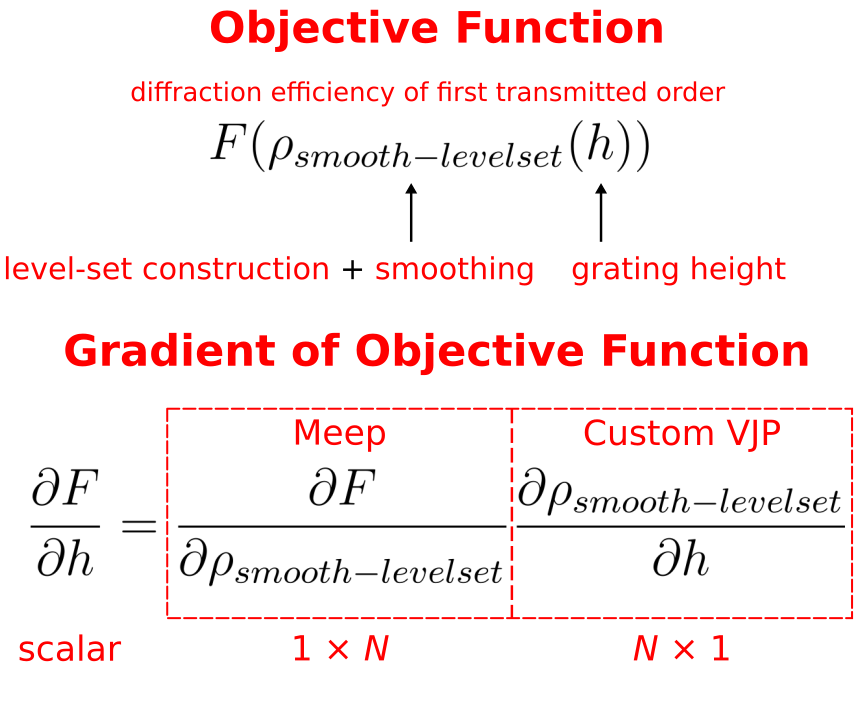
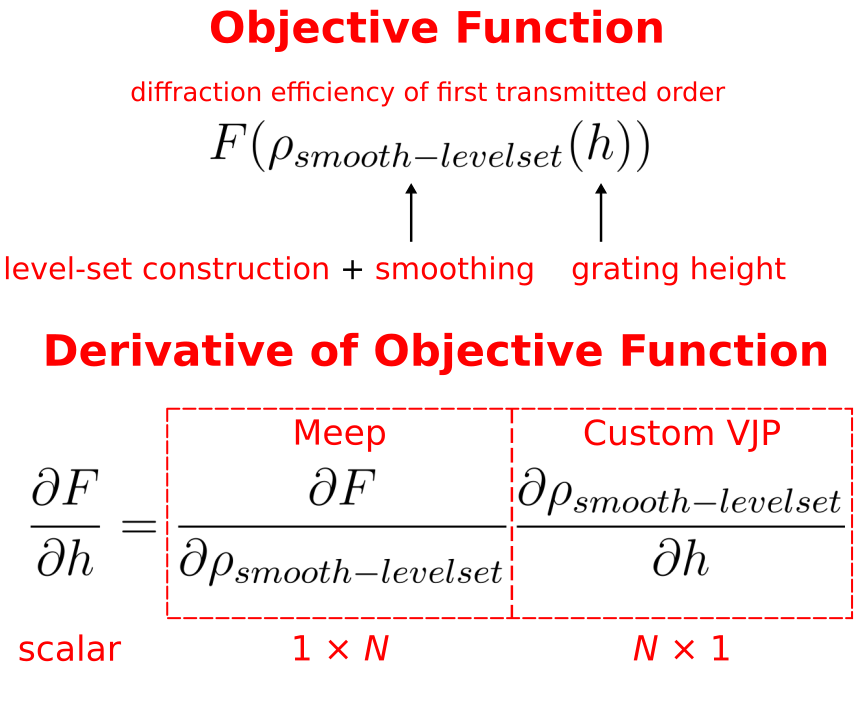
various tweaks and minor fixes to tutorial for derivative of shape parameters (#2856)

Changed region(s): [[0.0311, 0.4481, 0.9654, 0.5377]]

diff --git a/python/examples/adjoint_optimization/binary_grating_levelset.py b/python/examples/adjoint_optimization/binary_grating_levelset.py
@@ -1,10 +1,13 @@
-"""Computes the adjoint gradient of a level set.
+"""Computes the adjoint derivative with respect to shape parameters.
 
-This is a 2D example for computing the gradient of the diffraction efficiency
+This is a 2D example for computing the derivative of the diffraction efficiency
 of the first transmitted order of a 1D grating with respect to the grating
-height. The adjoint gradient is validated using the brute-force finite
-difference via the directional derivative. The grating structure is
-represented as a level set.
+height. The accuracy of the adjoint derivative is validated using the
+brute-force finite-difference approximation. The grating structure is
+represented as a level-set formulation.
+
+Reference Tutorial:
+https://meep.readthedocs.io/en/latest/Python_Tutorials/Adjoint_Solver/#derivatives-with-respect-to-shape-parameters
 """
 
 from enum import Enum
@@ -341,6 +344,6 @@ if __name__ == "__main__":
         (fnd_directional_deriv - adj_directional_deriv) / fnd_directional_deriv
     )
     print(
-        f"dir-deriv:, {fnd_directional_deriv:.8f} (finite difference), "
+        f"deriv:, {fnd_directional_deriv:.8f} (finite difference), "
         f"{adj_directional_deriv:.8f} (adjoint), {rel_err:.6f} (error)"
     )

diff --git a/doc/docs/Python_Tutorials/Adjoint_Solver.md b/doc/docs/Python_Tutorials/Adjoint_Solver.md
@@ -807,46 +807,46 @@ if __name__ == "__main__":
 Derivatives with Respect to Shape Parameters
 --------------------------------------------
 
-It is also possible to compute the derivative of the Meep outputs with respect to a geometric parameter via a [level-set](https://en.wikipedia.org/wiki/Level_set) formulation (an implicit-function representation of a material discontinuity) using the density-based adjoint solver. This is useful for applications involving [shape optimization](https://en.wikipedia.org/wiki/Shape_optimization) of explicitly parameterized geometries.
+It is also possible to compute the derivative of the Meep outputs with respect to a geometric parameter via a [level-set](https://en.wikipedia.org/wiki/Level_set) formulation (an [implicit-function](https://en.wikipedia.org/wiki/Implicit_function) representation of a material discontinuity) using the density-based adjoint solver. This is useful for applications involving [shape optimization](https://en.wikipedia.org/wiki/Shape_optimization) of explicitly parameterized geometries.
 
 As a demonstration, we will compute the derivative of the diffraction efficiency of the first transmitted order with $\mathcal{S}$ polarization (electric field out of the plane, i.e. $E_z$) of a 1D binary grating with respect to the grating height. The accuracy of the adjoint derivative is validated using a brute-force finite-difference approximation.
 
 The calculation of the diffraction efficiency involves [mode decomposition](Python_User_Interface/#mode-decomposition) of planewaves which is described in [Tutorial/Transmissive Diffraction Spectrum for Planewave at Normal Incidence](Mode_Decomposition.md#transmissive-diffraction-spectrum-for-planewave-at-normal-incidence). An important aspect of setting up this simulation is specifying a diffraction order (planewave) in 2D using the `meep.adjoint.EigenmodeCoefficient` object. This involves three components: (1) the wavevector via the `kpoint_func` parameter, (2) the polarization via the `eig_parity` parameter, and (3) the `eig_vol` parameter must be set to have a *length of one pixel in the periodic direction*. The latter is necessary for MPB to correctly interpret the wavevector in the Cartesian basis rather than the reciprocal-lattice basis defined by the grating period.
 
-The calculation of the derivative of the diffraction efficiency ($F$) with respect to the grating height ($h$) involves using the chain rule to obtain a product of two derivatives (Jacobians): (1) $\partial F / \partial \rho$ and (2) $\partial \rho / \partial h$, where $\rho$ are the density weights (2D grid of $N_x \times N_y = N$ points) used to represent the binary grating as a level set. (1) is the adjoint gradient computed by Meep. (2) requires the level set to be *smoothed* to ensure it that the derivative $\partial \rho / \partial h$ exists. (2) is implemented in Autograd using a custom vector–Jacobian product (vJP) which is used as part of reverse-mode differentiation (backpropagation) to compute $\partial F / \partial h$. An overview of this calculation is shown below.
+Calculating the derivative of the diffraction efficiency ($F$) with respect to the grating height ($h$) involves using the chain rule to obtain a product of two derivatives (Jacobians): (1) $\partial F / \partial \rho$ and (2) $\partial \rho / \partial h$, where $\rho$ are the density weights (2D grid of $N_x \times N_y = N$ points) used to represent the binary grating as a level set. (1) is the adjoint gradient computed by Meep. (2) requires the level set to be *smoothed* to ensure that the derivative $\partial \rho / \partial h$ exists. (2) is implemented in Autograd using a custom vector–Jacobian product (vJP) which is used as part of reverse-mode differentiation (backpropagation) to compute $\partial F / \partial h$. An overview of this calculation is shown below.
 
 ![](../images/levelset_gradient_backpropagation.png#center)
 
-The derivative $\partial \rho / \partial h$ can be approximated by a finite difference using a one-pixel perturbation applied to the grating height; this is computationally convenient because it greatly simplifies the construction of $\rho(h)$ as explained below. (A finite difference involves two function evaluations of $\rho(h)$, but the cost for this is negligible since it involves no Meep simulations.) The construction of $\rho(h)$ involves two steps: first, constructing a simple binary image $b(h)$ at a high resolution; and second, smoothing $b(h)$ into a continuous level-set function $\rho(h)$.  This smoothing of the image can be performed using a number of different methods including a [signed-distance function](https://en.wikipedia.org/wiki/Signed_distance_function) or convolution filter. In this example, the smoothing is based simply on downsampling the image from a high-resolution grid (10X the resolution of the simulation grid) to the lower-resolution simulation grid using bilinear interpolation, which leads to "gray" pixels at the boundaries between materials in a way that changes continuously with $h$. Only these boundary pixels have nonzero derivatives in the Jacobian $\partial\rho/\partial h$ in this case. This calculation is summarized in the schematic below.
+The derivative $\partial \rho / \partial h$ can be approximated by a finite difference using a one-pixel perturbation applied to the grating height; this is computationally convenient because it greatly simplifies the construction of $\rho(h)$ as explained below. (A finite difference involves two function evaluations of $\rho(h)$, but the cost for this is negligible since it involves no Meep simulations.) The construction of $\rho(h)$ involves two steps: first, constructing a simple binary image $b(h)$ at a high resolution; and second, smoothing $b(h)$ into a continuous level-set function $\rho(h)$. This smoothing of the image can be performed using a number of different methods including a [signed-distance function](https://en.wikipedia.org/wiki/Signed_distance_function) or convolution filter. In this example, the smoothing is based simply on downsampling the image from a high-resolution grid (10$\times$ the resolution of the simulation grid) to the lower-resolution simulation grid using bilinear interpolation, which leads to "gray" pixels at the boundaries between materials in a way that changes continuously with $h$. Only these boundary pixels have nonzero derivatives in the Jacobian $\partial\rho/\partial h$ in this case. This calculation is summarized in the schematic below.
 
 ![](../images/levelset_jacobian_matrix.png#center)
 
-A schematic of the simulation layout showing the design region containing the grating as a levelset is shown below. The adjoint gradient $\partial F / \partial \rho$ computed by Meep at a resolution of 400 pixels/$\mu$m is shown next to this schematic.
+A schematic of the simulation layout showing the design region containing the grating is shown below. The adjoint gradient $\partial F / \partial \rho$ computed by Meep at a resolution of 400 pixels/$\mu$m is shown next to this schematic.
 
 ![](../images/levelset_adjoint_gradient.png#center)
 
-The simulation script is in [python/examples/adjoint_optimization/binary_grating_levelset.py](https://github.com/NanoComp/meep/tree/master/python/examples/adjoint_optimization/binary_grating_levelset.py). Running this script at five different resolutions produces the output below for the directional derivative computed using the finite difference and the adjoint gradient as well as the relative error from these two results.
+The simulation script is in [python/examples/adjoint_optimization/binary_grating_levelset.py](https://github.com/NanoComp/meep/tree/master/python/examples/adjoint_optimization/binary_grating_levelset.py). Running this script at five different resolutions produces the output below for the derivative computed using the finite difference and the adjoint derivative as well as the relative error from these two results.
 
 ```
 RESOLUTION_UM = 50
-dir-deriv:, -0.02535355 (finite difference), -0.01469133 (adjoint), 0.420542 (error)
+deriv:, -0.02535355 (finite difference), -0.01469133 (adjoint), 0.420542 (error)
 
 RESOLUTION_UM = 100
-dir-deriv:, -0.00604817 (finite difference), -0.00473221 (adjoint), 0.217580 (error)
+deriv:, -0.00604817 (finite difference), -0.00473221 (adjoint), 0.217580 (error)
 
 RESOLUTION_UM = 200
-dir-deriv:, -0.00284452 (finite difference), -0.00252470 (adjoint), 0.112432 (error)
+deriv:, -0.00284452 (finite difference), -0.00252470 (adjoint), 0.112432 (error)
 
 RESOLUTION_UM = 400
-dir-deriv:, -0.00140221 (finite difference), -0.00132065 (adjoint), 0.058165 (error)
+deriv:, -0.00140221 (finite difference), -0.00132065 (adjoint), 0.058165 (error)
 
 RESOLUTION_UM = 800
-dir-deriv:, -0.00069606 (finite difference), -0.00067547 (adjoint), 0.029583 (error)
+deriv:, -0.00069606 (finite difference), -0.00067547 (adjoint), 0.029583 (error)
 ```
 
 A logarithmic plot of the relative error vs. grid resolution based on these results demonstrates linear convergence. This is expected for fields right on the boundary of a discontinuous interface.
 
-Currently, we recommend using this procedure only for the $\mathcal{S}$ ($E_z$) polarization, since for the for the $\mathcal{P}$ polarization (electric field in the $xy$ plane), there appear to be large discretization errors in the adjoint gradient which [we are currently investigating](https://github.com/NanoComp/meep/pull/2792#issuecomment-2171942477). This is why this demonstration only involved the $\mathcal{S}$ polarization.
+Currently, we recommend using this procedure only for the $\mathcal{S}$ ($E_z$) polarization, since for the $\mathcal{P}$ polarization (electric field in the $xy$ plane), there appear to be large discretization errors in the adjoint gradient which [we are currently investigating](https://github.com/NanoComp/meep/pull/2792#issuecomment-2171942477). This is why this demonstration only involved the $\mathcal{S}$ polarization.
 
 ![](../images/levelset_adjoint_gradient_error_vs_resolution.png#center)
 
@@ -1185,7 +1185,7 @@ if __name__ == "__main__":
         (fnd_directional_deriv - adj_directional_deriv) / fnd_directional_deriv
     )
     print(
-        f"dir-deriv:, {fnd_directional_deriv:.8f} (finite difference), "
+        f"deriv:, {fnd_directional_deriv:.8f} (finite difference), "
         f"{adj_directional_deriv:.8f} (adjoint), {rel_err:.6f} (error)"
     )
 ```
